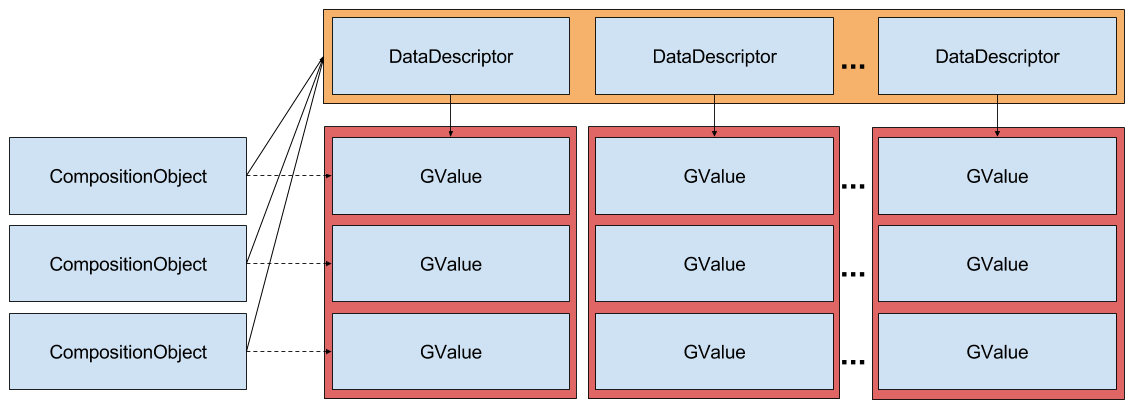
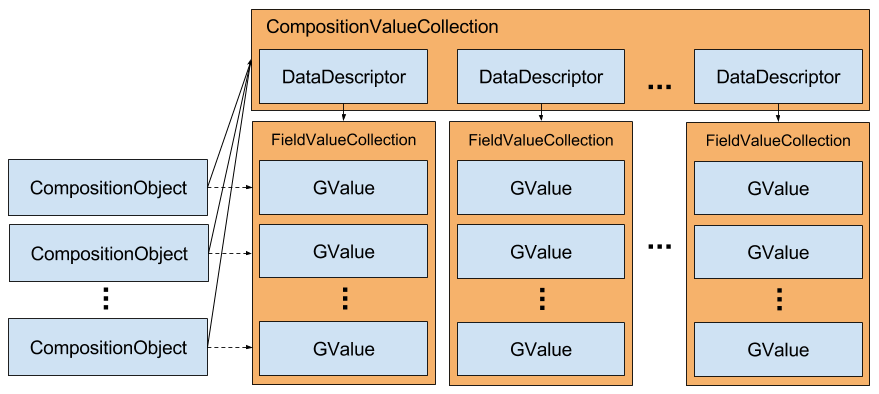
tete

diff --git a/implementation/part1.tex b/implementation/part1.tex
@@ -1,37 +1,102 @@
 \chapter{Implementation Part I: The Column Store}
 \label{chap:Implementation Part I: The Column Store}
-Inspired by the challenges with the current solution which we saw in Section \ref{sec:Challenges with the current solution}, we proceed to use techniques from the field of Database Technology to reduce memory footprint and increase data locality, which in turn will increase performance. 
+% Tell how we want to reduce memory and how database technology comes to the rescue
+For the first part of this thesis, our goal is to reduce memory footprint such that client memory requirements can be relaxed. Reduced memory usage are also likely to increase performance due to increased data locality and the cost of memory management. Inspired by the challenges with the current solution which we saw in Section \ref{sec:Challenges with the current solution}, we proceed to use techniques from the field of Database Technology to reduce memory footprint and increase data locality.
 
-We choose to implement a column store. The reason for this is two-fold. First, there are several advantages with columns rather than rows: They are compressible. Second, the cases where \genus~has experienced performance issues are in situations where a column store is better suited than a row store. Since the entire implementation run in-memory, stiching together rows are not as costly as if they were stored on disk. In addition, Create, Update and Delete operations contains much other code for constraint checking, validation, allocation, etc. We, therefore, hypothetize that a column store is better suited than a row store.
+% Tell why we pick a column store 
+We choose to implement a column store. The reason for this is two-fold. First, as we saw in Section \ref{sub:Row Stores Vs Column Stores}, columns are inherently more compressible. Column stores is, hence, better suited to test our hypothesis and reduce memory footprint than a row-store. Second, the cases where \genus~has experienced performance issues are in situations where a column store is better suited than a row store, for instance on lookup index generation and filter operations.
 
-\section{Column Store Implementation}
-\label{sec:Column Store Implementation}
-In the example from Section \ref{sub:Excessive Amount of Pointers}, we saw how a data source with 1,000,000 objects and 15 attributes each needed roughly 32 million pointers. Nearly half of these pointers origin from the data descriptor pointers stored within each object.
-
-In our column store, we plan to replace the \cn{CompositionObjectValueCollection} pointer in each CompositionObject with one \cn{CompositionValueCollection} and an integer \vn{
-DatasourceIndex} that indicaties which position in the data source it has. Hence, each CompositionObject will only have one pointer (8 bytes) and one integer (4 bytes), irrespective of how many attributes the Composition has. The \cn{CompositionValueCollection} will require a data descriptor and/or \vn{DatasourceIndex} to access and modify rows, columns, or single values. This reduces the amount of memory needed to be stored per \cn{CompositionObject} to 2 direct pointers and only data pointers within the \cn{CompositionValueCollection} 15 pointers, which results in roughly 17 million pointers. This, disregarding overhead, is a memory reduction of roughly 50\%.
+% Tell why we didn't pick a row store
+We believe that transactional processing, where a row store is more suited, will not suffer from using a column-store. On create, update, and delete operations, there constraint checks, validation and memory operations that will make the overhead looking up in multiple columns neglible. Last, row stores mighht rely on indexes that are costly to maintain. Column-stores normally do not need such indexes, because operations on entire columns are efficient \cite{Plattner2014-fr}
 
 
-\ffigure{img/gap-original-rows.png}{Original implementation with Data Descriptor pointers for ever row}{fig:gap-original-rows}
-\ffigure{img/gap-bb-columns.png}{Proposed implementation. Only one set of data descriptors per pointer, data accessed using \vn{DatasourceIndex} on every \cn{CompositionObject}. The Composition Objects does not hold pointers to the data directly, but a cell can be accessed using a data descriptor and a datasource index.}{fig:gap-bb-columns}
-For the column store to work, a new value collection class was created. This class will, for each composition, keep a list of all fields (\cn{FieldDescriptor}) belonging to a composition and a corresponding column (\cn{CompositionComObjValueCollection}).
+\section{CompositionValueCollection}
+\label{sec:CompositionValueCollection}
+% Lineout the challenges
+As we saw in Section \ref{Challenges in Genus App Platform}, one of the challenges in \gap~is the \cn{CompositionObjectValueCollection} class that not only holds the data belonging to each object, but also pointers to the data descriptors. Although this class is flexible because it is self-contained, and can be passed among objects to copy values, for most cases, references to the data descriptors does not generally need to be stored per data collection. 
 
-\subsection{\cn{FieldValueCollection} growth strategy}
-\label{sub:FieldValueCollection growth strategy}
+% Conceptually what is done
+\begin{figure}
+    \centering
+    \begin{subfigure}{1.0\textwidth}
+        \includegraphics[width=\textwidth]{img/gap-original-rows.png}
+        \caption{Original implementation with \cn{CompositionObjectValueColletion}. Each object has its own value collection structure, and each value collection contains pointers to the data descriptors and to the data.}
+        \label{fig:gap-original-rows}
+    \end{subfigure}
+    \begin{subfigure}{1.0\textwidth}
+        \includegraphics[width=\textwidth]{img/gap-bb-columns.png}
+        \caption{Column store implementation with \cn{CompositionValueColletion} and \cn{FieldValueCollection}. All objects in a data source point to the same value collection, and access data using its \cn{DatasourceIndex} which indicates the row number in the columns}
+        \label{fig:gap-bb-columns}
+    \end{subfigure}
+    \caption{Comparison of the original implementation and the column store implementation.}
+    \label{fig:gap-storage-comparison}
+\end{figure}
+In our column store, we plan to replace the \cn{CompositionObjectValueCollection} pointer in each \cn{CompositionObject} with a pointer to a \cn{CompositionValueCollection} and an integer, \cn{DatasourceIndex}, that indicates which position in the data source the object has. All objects within a data source has a pointer to the same \cn{CompositionValueCollection}. This means that composition objects no longer will query its own data collection for values, but rather one common data collection used by all objects. To access a certain value, both \cn{DataDescriptor} and \cn{DatasourceIndex} is required to indicate column and row respectively. A comparison of the old and the new implementation is seen in \ref{fig:gap-storage-comparison}.
+
+% How it impacts memory
+In Section \ref{sub:Excessive Amount Of Pointers}, we saw how a data source with objects with 15 properties each needed 32 pointers, or 256 bytes, per objects just for data and data access. Now, this number is reduced to 17 pointers and an integer, which is 140 bytes. Hence, we save 45\% memory by using our new system.
+
+% CompositionObjectValueCollection still exists
+Even though the original \cn{CompositionObjectValueCollection} was discarded as the main storage structure, composition objects can still assemble such structures by querying the \cn{CompositionValueCollection}. This is used in object cloning and to transfer data across different data sources in different parts of the application \todo{Stemmer dette?}.
+
+% class diagram
+% explain the dictionary and the list of data descriptors
+\afigure{img/CompositionValueCollection.png}{\cn{CompositionValueCollection} class diagram.}{fig:CompositionValueCollection}{0.9}
+The \cn{CompositionValueCollection} is a class type. The class diagram is shown in Figure \ref{fig:CompositionValueCollection}.
+
+The main methods in the \cn{CompositionValueCollection} class is the \fn{setValue} and \fn{getValue} methods. These functions respectivel set and get \cn{GValues} for a data descriptor and a datasource index. In these operations, the correct column, or \cn{FieldValueCollection}, is looked up in a dictionary, and the index is passed along to the column to get or set the value. If no column exist for a data descriptor, it is created. \fn{isAssigned} and \fn{unassignValue} works similarly. We study the unassigned semantic in Section \ref{sub:Unassigned Values}. 
+
+Datasource indexes are assigned by passing composition objects to the  \fn{registerObject} function. A private variable \vn{maxDatasourceIndex} is used to keep track on the maximum index handed out so far. When an object is received, this variable is incremented and the object is assigned that value. In addition to this, a bitmap \fn{assignedIndexes} is kept to bookkeep which indexes has objects connected to them. When \fn{removeObject} is called, the bit for that index is unset in \fn{assignedIndexes}. In addition, all values corresponding to that object are unassigned. Currently, the \fn{assignedIndexes} bitmap is not used to lookup the first available bit, since this triggers a linear search on every insertion. We discuss this further in the chapter conclusion.
+
+In addition to the above methods, a \cn{CompositionValueCollection} has the ability to unassign an entire row or column by passing in a \cn{CompositionObject} or \cn{DataDescriptor} respectively. We see later in this research where such methods are used.
+
+The \fn{Consolidate} function is called by the data source when it is done loading, and is meant to be an operation where the column store restructures and maximizes space utilization. We see how the columns are affected by this operation in the section about growth strategy, Section \ref{sec:Growth Strategy}.
+
+
+\section{FieldValueCollection}
+\label{sec:FieldValueCollection}
+
+A column is implemented as a \cn{FieldValueCollection} class. This class, uses a \cn{TObjectList<GValue>} to store all values, and all values are accessed using integers. The FieldValueCollection has the following methods:
+\begin{itemize}
+    \item \fn{Create}
+    \item \fn{GetValue}
+    \item \fn{SetValue}
+    \item \fn{IsAssigned}
+    \item \fn{UnassignValue}
+\end{itemize}
+
+The basic implementation of \cn{FieldValueCollection} works much like a \cn{TList} type which is built into \delphi, however it has an extra semantic of assigned values.
+
+\subsection{Unassigned Values}
+\label{sub:Unassigned Values}
+Setting a value to \vn{null} has different semantics than \fn{UnassignValue}. The latter means that there has previously been a value present, but is now removed for performance reasons. This functionality is implemented using a bitmap, \cn{BasicBitArray}, which is based on \delphi~\cn{TBits} type.
+
+\section{Growth Strategy}
+\label{sec:Growth Strategy}
 Since we used native dynamic arrays, we control the array allocation size. For every reallocation, we risk that the entire array needs to be copied from one part of the memory to another. For this reason, one should be generous when allocating, ideally allocate the correct size immediately. However, since we read a stream of data objects, we are not sure how large our buffers should until the very end. 
 
 \afigure{img/gap-growth-strategy.png}{Growth strategy for buffers. In the load phase, the buffer doubles every time more space is needed. After the load phase, a consolidation is performed which reduces the buffer size to the exact number which are contained in a column.}{fig:gap-growth-strategy}{0.6}
 Therefore, we chose a tactic where we double the buffer size every time we need more space. This way, the number of reallocation operations are kept at a minimum. However, this strategy might result in lots of unused buffer space. We, therefore, add a \fn{consolidate} function to our column store that resizes all buffers to fit its data. The strategy is depicted in \ref{gap-growth-strategy}.
 
-
-\section{The Datasource Index}
-\label{sec:The Datasource Index}
-All CompositionObjects were assigned a new attribute, namely a datasource index. The CompositionObject constructor would call the DatasourceCompositionComObject
-
-\section{Assigning and }
-\label{sec:Assigning and }
+\section{Modifiying CompositionObject}
+\label{sec:Modifiying CompositionObject}
+It must no longer ask its value collection, it must send itself and its datasource index into the GetValue. It no longer holds ownership to a collection, it has a pointer to a value collection shared by all composition objects.
 
 \section{Test results}
 \label{sec:Test results}
-To test the new implementation, we ran the TPC-H benchmark Q1.
+To test the new implementation, we ran the TPC-H benchmark Q1. 
+
+\subsection{TPC-H Result}
+\label{sub:TPC-H Result}
+
+\subsection{Write test results}
+\label{sub:Write test results}
+
+\section{Chapter Conclusion}
+\label{sec:Chapter Conclusion}
+
+
+\subsection{Future Work}
+\label{sub:Future Work}
+Now, we only assign new datasource indexes by incrementing, however we have put in a bitmap for assigned flags. We have disregarded this structure due to the linear search to find the first open bit, and that neither of our benchmarks inserts and removes certain objects. Future work might investigate the effects of using \fn{OpenBit}, and perhaps separate between loading and normal state.
 

diff --git a/background/background.tex b/background/background.tex
@@ -403,6 +403,88 @@ Value and constant parameters to a method call is either passed by reference or 
 
 There is support for Generics, where things can be parameterized by type \cite{noauthor_undated-sx}. Used to decouple an algorithm from its data structure. On an instantiation, it results in a code duplication.
 
+\subsection{Standard library}
+\label{sub:Standard library}
+Some built-in classes in the standard library include:
+\begin{itemize}
+    \item \cn{TBits} is a built in type that represents a bitmap. It works like an array of booleans, except that it is optimized for speed using assemply code. In addition, it contains an utility method \fn{OpenBit}, which finds the first 0, or the open bit, in the bitmap.
+    \item \cn{TArray} is the generic implementation of \cn{array of *}. It is ref-counted, dynamically allocated using the \texttt{SetLength} function. Its performance is studied in Appendix \ref{app:array-performance}.
+    \item \cn{TList} and \cn{TObjectList} are wrappers for \cn{TArray} that automatically allocates enough space. \cn{TObjectList} is like \cn{TList}, but it assumes ownership over objects and automatically frees objects that are removed from the list.
+\end{itemize}
+
+\section{Business Discovery}
+\label{sec:Business Discovery}
+To overcome the challenges with traditional \bi~systems, a new type of products have emerged. We call these for \bd~products, a notion that was introduced by \textit{Qlik}~\cite{Qlik2014-vd}. \bd~products normally build on in-memory technologies and are fast, elegant, and end user intuitive solutions to analyse business data. Examples of such products are \powerpivot, \tableau, and \qlikview. We have only studied \qlikview~and \tableau~in this thesis.
+
+\ffigure{img/qlik-hierarchy.png}{Comparison of a traditional reporting application and \qlikview. Traditional \bi~applications normally have predefined drill-down paths. \qlikview~allows the user decide where to start and end. Courtesy of \cite{Qlik2014-vd}.}{fig:qlik-hierarchy}
+
+\bd~products allow users to follow their "information scent" or "train of thought" when navigating through the data \cite{Kamkolkar2015-iq, Qlik2014-vd}. As seen in Figure \ref{fig:qlik-hierarchy}, there are no prespecified drill-down patterns, and users decide where to start and end. In these applicaitons, grouping, joining, and calculations are performed on-the-fly. High-performance, in-memory technologies are used to enable such functionality. 
+
+In the next sections, we explain how a typical \bd~application works by using \qlikview~primarily as an example. \tableau~and \powerpivot~work similarly.
+
+\subsection{Data Import}
+\label{sub:Data Import}
+
+\ffigure{img/qlikview-script.png}{The \textit{Edit Script} dialog in \qlikview. The import script specifies data sources and defines tables and associations for the data that should be analyzed. Courtesy of \cite{QlikTech_International_AB2011-ov}.}{fig:qlikview-script} 
+
+Data is loaded into a \qlikview~document using a data import script that connects the application with data sources like databases or files. The script uses an SQL-like syntax that lets the user specify names of fields and tables that are used in the data analysis. Also, database connection parameters or file paths are stored. Figure \ref{fig:qlikview-script} shows the dialog used in \qlikview~to configure a data import script.
+
+When the data import script is run, data is fetched from the sources and put into the \qlikview~in-memory engine such that data can be queried efficiently. In \qlikview, no queries are executed directly on the underlying data sources. \tableau, however, allows this. In addition to the built-in in-memory engine, the application can be connected directly to live database servers such that companies can utilize investments in high-performance databases \cite{Kamkolkar2015-iq}.
+
+
+\afigure{img/qlikview-association.png}{Four tables: Countries, customers, transactions, and memberships. The fields \textit{Country} and \textit{CustomerID} associate the tables. Courtesy of \cite{QlikTech_International_AB2011-ov}.}{fig:qlikview-association}{0.6}
+
+The data import script will regularly include more than one table. Multiple tables are \textit{associated} if they have fields with the same name, as seen in Figure \ref{fig:qlikview-association}. Internally, there can be only one data connector between a pair of tables, so if multiple tables refer to a single table, a mechanism (either \textit{synthetic keys} or \textit{loose coupling}) must be applied to logically duplicate the table. This restriction ensures that there exists no more than one possible join path between any pairs of tables \cite{noauthor_undated-js}.
+
+In the data import step, data might be preprocessed and transformed. First, data can be aggregated, for instance by summarizing or grouping, before being loaded into \qlikview. Second, data might be filtered. Both these techniques reduce data volumes. Lastly, data can be denormalized in the import script, i.e. pre-joining tables before import. Denormalizing can be done to lower the number of tables in the data extract and, by doing so, reduce application complexity. We discuss the performance impact of pre-aggregating and denormalization in Section \ref{sec:Application Design} and Section \ref{sec:Denormalization} respectively.
+
+\subsection{User Interface}
+\label{sub:User Interface}
+\ffigure{img/qlik-panel.png}{\qlikview~dashboard with various GUI elements, like lists and charts. Selections are green, matched data is white, and unrelated data is gray. Courtesy of \cite{Qlik2014-vd}.}{fig:qlik-panel}
+Users interact with the \bd~application through a reporting dashboard, as seen in Figure~\ref{fig:qlik-panel}. Requirements for such panel are typically \cite{Qlik2014-vd}:
+\begin{itemize}
+  \item Clicking field values in list boxes.
+  \item Lassoing data in charts, graphs, and maps.
+  \item Manipulating sliders.
+  \item Choosing dates in calendars.
+  \item Cycling through different chart types.
+\end{itemize}
+
+Users navigate through the data by making selections in the user interface. When a selection is made, the item is made green, as seen in Figure \ref{fig:qlik-panel}. The current selection is also known as the \term{application state}. Upon selection, the rest of the elements in the panel are updated based on the new application state; aggregations are recalculated, and graphs and lists are updated. \qlikview~colors matched elements white and unmatched elements gray.
+
+Both \qlikview~and \tableau~publish the reporting dashboards through a server \cite{Kamkolkar2015-iq, Qlik2011-ef}. This way, the dashboards are accessible for multiple users at the same time, and can be accessed from different devices, including desktop computers, tablets, and mobile phones.
+
+\subsection{Security Settings}
+\label{sub:Security Settings}
+In \qlikview, document-level authorization is the main form of access control \cite{Qlik2011-hj}. Here, documents (data extracts and reporting panels) may be restricted and only made available to certain users or user groups. In addition to document-level authorization, applications may also define a dynamic filter that is applied to the data. Using this dynamic filter approach, several user groups can use the same document, only with different restrictions on the data.
+
+\tableau~supports both data-level and user-level security \cite{Kamkolkar2015-iq}. Data can be filtered per user as long as the filter matches a \texttt{WHERE}-clause. Like \qlikview, \tableau~can restrict the access to reports and views to certain users or user groups.
+
+\subsection{Business Discovery, Queries, and SQL}
+\label{sub:Business Discovery, Queries, and SQL}
+We see that \bd~products interact with the data using selections and filters in a reporting panel. This technique is different from database systems designed for OLAP workloads, which normally use a \textit{query-based} interface, usually SQL. Since we study several DBMSes in this report, it is important to know how \bd~products relate to traditional database queries and SQL.
+
+Queries, or requests, in a \bd~application have certain characteristics. First of all, they cannot be anticipated, more specifically, they are \textit{ad-hoc}. Secondly, there is a limit to the number of returned rows. Users are interested in queries that can be analyzed quickly, so we do not expect a \bd~application to return thousands of rows as a result from a single table \cite{Ferrari2012-hm}. Also, the user interface has limitations in how much data that can be displayed at the same time. 
+
+Even though \bd~applications do not support traditional queries, they still need most of the functionality provided by SQL. Below, we enumerate core SQL functionality and explain why it is necessary in order to create a \bd~application.
+
+\paragraph{Listing of rows}
+\bd~applications require rows in a table to be listed in the user interface. Although this seems like a trivial requirement, there are storage formats (Column Storage, Section \ref{sec:Column Storage}) where listing and "stitching together" tuples are non-trivial. 
+
+\paragraph{Filtering}
+We need data filtering in a \bd~application for several reasons. First and foremost, application state might be specified in terms of a predicate. For instance, the user might want to display transactions between two dates. Secondly, to support security, some data might need to be filtered before sent to the application.
+
+\paragraph{Joining}
+We see that \bd~applications work on several associated tables at a time. Hence, joins are required to connect the tables such that one table can be filtered based on a selection in another table. However, we can limit our join functionality to equijoins over foreign keys. Join functionality is not needed if the imported data is denormalized and put into one single table.
+
+\paragraph{Grouping and aggregation}
+\label{par:Grouping and aggregation}
+As mentioned earlier, we expect \bd~applications to include summaries of data which is the reason grouping and aggregation must be supported. We may limit the grouping keys to foreign key attributes.
+
+\paragraph{Sorting}
+\label{par:Sorting}
+Sorting is required in a \bd~application because there will be GUI elements that keep their data sorted. Although this can be solved in the client, it is better to do this during query processing. Besides, we need sorting if we want to show the top of a selection, for instance, the top ten grossing products.
+
 \section{Testing}
 \label{sec:Testing}
 The TPC-H benchmark is commonly used to test analytical workloads. The benchmark is made for decision support workloads and consists of a suite of business oriented ad-hoc queries \cite{Transaction_Processing_Performance_Council_TPC2014-ux}. The benchmark has 22 complex read-only queries, which are both memory and CPU bound \cite{Boncz2005-wj}, and two update queries for data refresh. The TPC-H specification says the benchmark illustrates a decision support system that:

diff --git a/introduction/introduction.tex b/introduction/introduction.tex
@@ -24,6 +24,16 @@ Database technology and column store is one such implementation that can be chan
 % Paragraph about how we got the idea to the research
 Our original research was focusing on business discovery optimalizations. However, we came up with the idea to use the techniques learnt from the database techonolgy dircectly as base structures within \gap.
 
+\subsection{Motivation}
+\label{sub:Motivation}
+One of \genus' main issues with \gap~is that it uses too much memory. The clients normally run in virtual environments with little RAM available. It is commonplace that a client runs out of memory and starts paging, which leads to drastically reduced performance. In addition, the hypothesis is that reduced memory consumption increases performance because memory management is expensione. In addition, there are several operations in \gap~that are slow, including \pn{Genus Discovery} load and filter operations.
+
+Therefore, we implement database techniques in order to:
+\begin{enumerate}
+    \item Reduce memory consumption to relax memory requirements for clients and improve performance by reducing expensive memory management.
+    \item See how a model-driven development tool benefits from database technology, and see which operations can be speeded up
+\end{enumerate}
+
 \section{Problem Statement, Goals, and Research Questions}
 \label{sec:Problem Statement, Goals, and Research Questions}
 Based on our motivation, we define the goal of the project as following: 
@@ -97,20 +107,24 @@ A Database Management System (DBMS) is a computer software application for stora
 \label{par:Business Discovery}
 \bd~is a term introduced by a \qlikview~whitepaper \cite{Qlik2014-vd}. \bd~products differ from traditional \bi~systems by focusing more on the end user. \bd~products do not rely on aggregated data such that the user can follow his "information scent" and click his way through the data. \bd~platforms often provide an architecture that enables panels and dashboards to be shared with multiple clients, both on desktops and mobile devices. Current \bd~products typically build on tailored storage systems that are specifically designed for \bd~workloads, but some of them integrate directly with read-optimized DBMSes. \bd~products include \tableau, \qlikview, \powerpivot, and more. \bd~is explained in greater detail is Section~\ref{sec:Business Discovery}.
 
-\paragraph{Reference products}
-\label{par:Reference products}
-We will occasionally use the term \textit{reference products} in this report. By reference products we mean \bd~products pointed out by \genus~that \bd~capabilities in \gap~will be compared to. In this report, we study \qlikview~and \tableau.
+%\paragraph{Reference products}
+%\label{par:Reference products}
+%We will occasionally use the term \textit{reference products} in this report. By reference products we mean \bd~products pointed out by \genus~that \bd~capabilities in \gap~will be compared to. In this report, we study \qlikview~and \tableau.
 
 
 \section{Thesis Structure}
 \label{sec:Thesis Structure}
 % some examples in english matters
+We use the two first implementation chapters to focus on reducing memory footprint, then the last one to improve the performance of certain operations.
+
 We structure our thesis as following:
 \begin{itemize}
   \item \textbf{Chapter 2} introduces background material relevant to this report. 
   \item \textbf{Chapter 3} outlines \gap.
   \item \textbf{Chapter 4} shows how column store is implemented.
-  \item \textbf{Chapter 5} presents the test results.
+  \item \textbf{Chapter 5} shows how simple data types and compression techniques are used to reduce memory footprint.
+  \item \textbf{Chapter 6} elaborates on techniques that speeds up certain operations.
+  \item \textbf{Chapter 7} discuss the results.
   \item \textbf{Chapter 6} concludes this research and points at interesting directions for future work.
 \end{itemize}
 

diff --git a/genus-app-platform/genus-app-platform.tex b/genus-app-platform/genus-app-platform.tex
@@ -70,9 +70,14 @@ A data source might define a filter on which objects that should be loaded. This
 \subsection{Data Mart}
 \label{sub:Data Mart}
 \afigure{img/gap-data-mart.png}{Data mart for Q1 in \tpch, which contains only the object classes and fields needed to answer that particular query. The mart conforms to a snowfalke schema.}{fig:gap-data-mart}{0.7}
-A data mart defines a data extract that are used in analyses and \bd~panels in \gap. A data mart is defined by a set of data sources, and per data source, a list of published fields. Like always, a data source might specify a filter, such that the analyses access only a particular subset of the data.
+A data mart defines a data extract that are used by \pn{Genus Discovery}, the integrated \bd~soulution within \gap. A data mart is defined by a set of data sources, and per data source, a list of published fields. Like always, a data source might specify a filter, such that the analyses access only a particular subset of the data.
 
 Besides from the field and data source filtering, a data mart looks very much like like an object diagram, like seen in Figure \ref{fig:gap-data-mart}. Still, there is one important distinction: A data mart must conform to a snowflake schema, that is there can only exist one path through the class diagram. For instance, in Figure \ref{fig:gap-class-diagram}, both customer and suppliers refer to the nation table. In a data mart, there would two nation entitities, a \texttt{CUSTOMER\_NATION} and a \texttt{SUPPLIER\_NATION} table.
+
+\subsection{Genus Discovery}
+\label{sub:Genus Discovery}
+\missingfigure{Genus discovery screenshot}
+\pn{Genus Discovery} is the built-in \bd~solution in the platform. It is a graphical user interface component that builds on a data mart. Like most similar products, \pn{Genus Discovery} does not rely on aggregated data such that the user can follow his "information scent" and click his way through the data. An example user interface is seen in Figure \ref{fig:genus-discovery}.
 
 \subsection{Task}
 \label{sub:Task}

diff --git a/discussion/discussion.tex b/discussion/discussion.tex
@@ -10,6 +10,8 @@ Although we have theoretical proof and indications that the approach is fruitful
 \label{sec:Row storage}
 We have chosen to implement column storage; however a an efficient row-wise storage might also have given much of the benefits that column storage do. However, as we have seen, data update operations are dominated by other operations, like integrety checks and database persistence. However, as we have seen, most operations work on an entire column at a time, rather than an entire row. 
 
+According to our results, no operations have been hurt by the column store. We do, however, believe that there are operations that would benefit from a row store.
+
 \section{Relation to Normal Programming Languages}
 \label{sec:Relation to Normal Programming Languages}
 We see that we have drastically improved end-user performance without affecting the information system development layer. However, most programming languages do not offer the same functionality. Regular developers would need something that is: i) rapid development, ii) readable, maintainable and debuggable code, and iii) occasionally control over data structures. Implementing column store in a regular application would sacrifice all of these three points. We wonder if this need not be the case.

diff --git a/appendices/benchmarks.tex b/appendices/benchmarks.tex
@@ -6,7 +6,7 @@ All tests are run on a Windows 10 Dell workstation with a 64-bit, 2.40 GHz Intel
 
 Memory usage is measured for various states in the program by querying the built-in \name{FastMM} memory manager, and the values returned are used to measure memory deltas. To measure the entire application footprint, including the .NET layer and the graphical user interface, the built-in memory manager in Windows 10 is used.
 
-We run all benchmarks in \textit{Genus Desktop} in \delphi~debugger mode. Test output and debugging statements is extracted through \textit{Trace Log}, a log tool developed by \genus~for their applications.
+We run all benchmarks in \textit{Genus Desktop} in \delphi~debugger mode. Test output and debugging statements is extracted through \textit{Trace Log}, a log tool developed by \genus~for their applications. For all benchmarks, a restart of the application is performed prior to running the test. This way, we minimize any effects caused by caching.
 
 \section{TPC-H Q1 Data Load Benchmark}
 \label{bm:q1}
